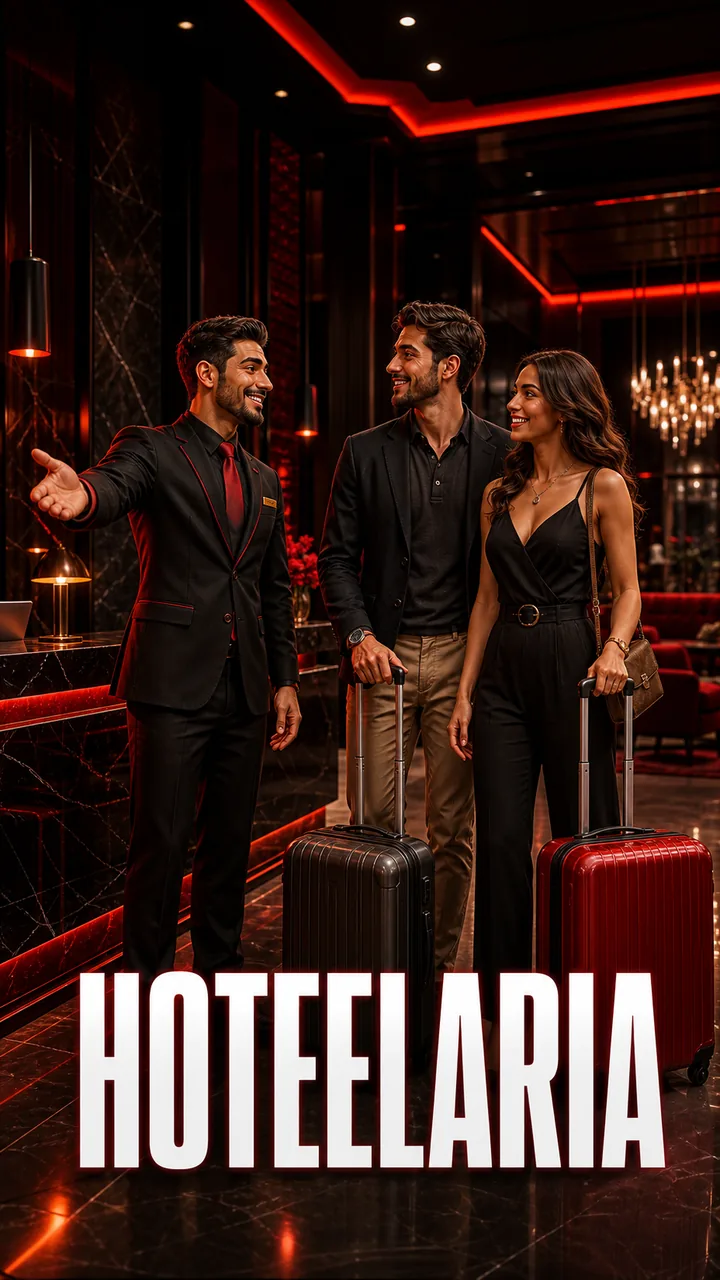
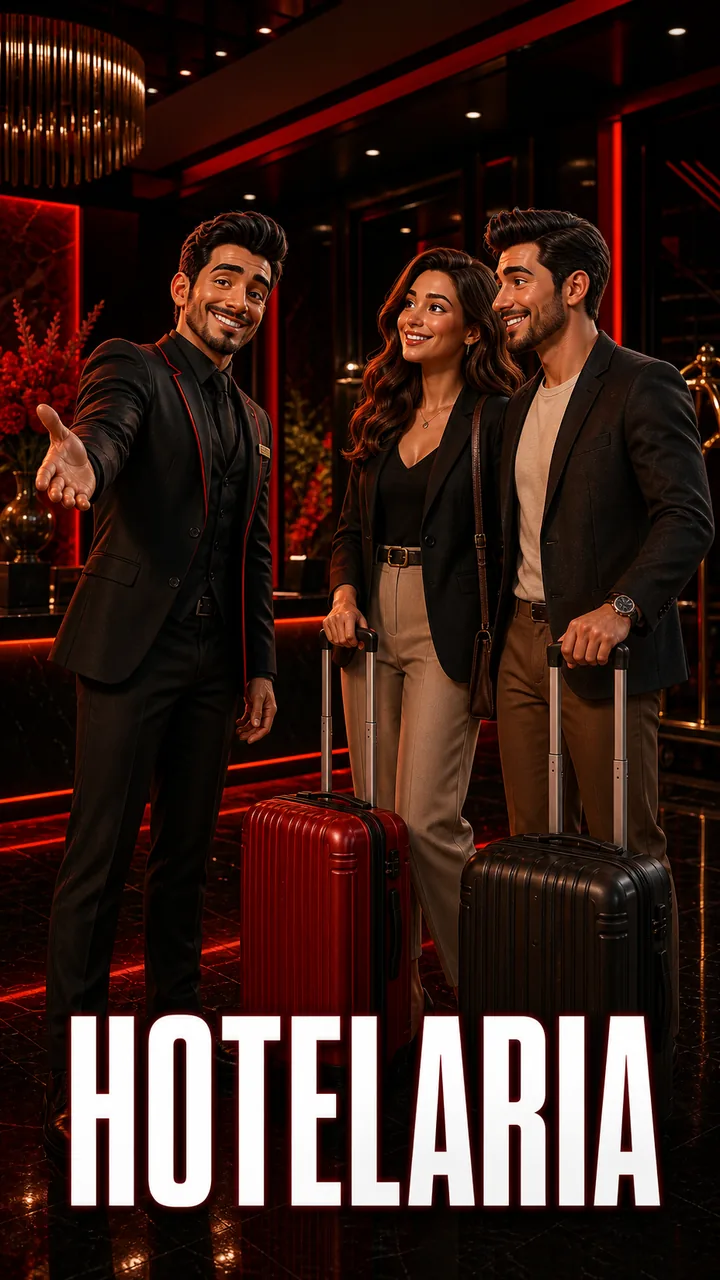
Corrige hotelaria e adiciona agronegocio

diff --git a/opcao-2/index.html b/opcao-2/index.html
@@ -1828,6 +1828,7 @@
             <button class="filter-btn" data-filter="Servi&ccedil;os">&#128736;&#65039; Servi&ccedil;os</button>
             <button class="filter-btn" data-filter="Com&eacute;rcio">&#128722; Com&eacute;rcio</button>
             <button class="filter-btn" data-filter="Ind&uacute;stria">&#127981; Ind&uacute;stria</button>
+            <button class="filter-btn" data-filter="Agroneg&oacute;cio">&#127806; Agroneg&oacute;cio</button>
             <button class="filter-btn" data-filter="Educa&ccedil;&atilde;o">&#127891; Educa&ccedil;&atilde;o</button>
             <button class="filter-btn" data-filter="Eventos">&#127881; Eventos</button>
             <button class="filter-btn" data-filter="Outros">&#10133; Outros</button>
@@ -1911,6 +1912,14 @@
               <div class="portfolio-info">
                 <div class="project-name">Ind&uacute;stria</div>
                 <div class="project-meta">Produ&ccedil;&atilde;o &middot; Tecnologia &middot; Processos</div>
+                <button class="watch-btn js-watch">Assistir v&iacute;deo</button>
+              </div>
+            </article>
+            <article class="glass-card portfolio-card reveal" data-format="Agroneg&oacute;cio" data-name="Agroneg&oacute;cio" data-segment="Produtores, tecnologia e produ&ccedil;&atilde;o rural" data-videos="https://vimeo.com/1205071540?share=copy&amp;fl=sv&amp;fe=ci" data-lazy-style="--thumb-bg: url('assets/capas-segmentos/agronegocio.webp') center / cover;">
+              <div class="reel-thumb"><span class="play-chip" aria-hidden="true"></span></div>
+              <div class="portfolio-info">
+                <div class="project-name">Agroneg&oacute;cio</div>
+                <div class="project-meta">Produtores &middot; Tecnologia &middot; Produ&ccedil;&atilde;o rural</div>
                 <button class="watch-btn js-watch">Assistir v&iacute;deo</button>
               </div>
             </article>